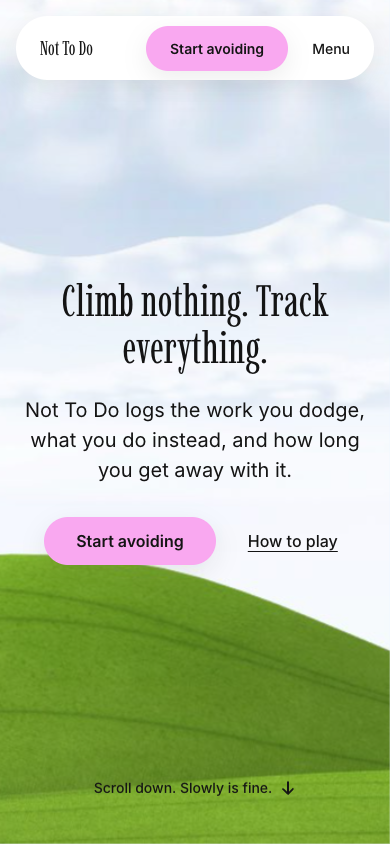
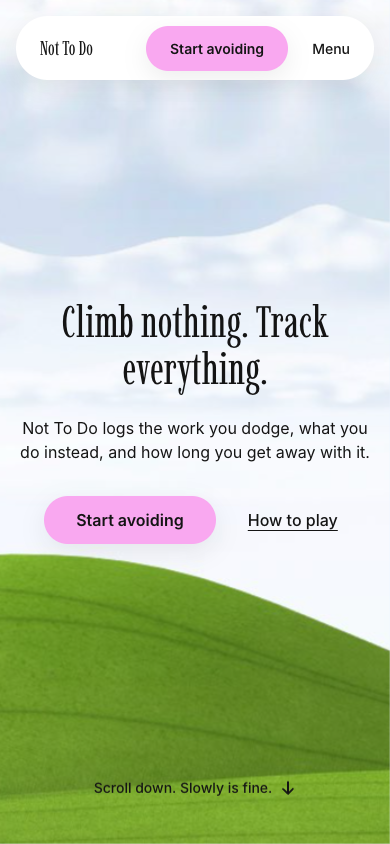
Hero headline fills the header width, smaller sub, cue lifted above the badge on tablet

Changed region(s): [[0.0615, 0.3389, 0.9538, 0.6777], [0.6154, 0.5853, 0.8615, 0.6469]]

diff --git a/src/styles/tokens.css b/src/styles/tokens.css
@@ -22,6 +22,8 @@
   /* Type scale (fluid between phone and desktop) */
   --text-display: clamp(3.5rem, 1rem + 11vw, 12rem);     /* intro parts */
   --text-title-xl: clamp(2.75rem, 1.5rem + 5vw, 6rem);   /* intro line 2, H1, high score */
+  --size-header-width: min(100vw - 2 * var(--space-4), var(--content-max));  /* width of the floating header pill */
+  --text-hero-title: calc(var(--size-header-width) * 0.103);  /* hero H1, tablet and up: fills the header width on one line (Imbue: the line is 9.5 times its font size) */
   --text-title-l: clamp(2rem, 1.2rem + 3vw, 4rem);       /* H2 */
   --text-title-s: clamp(1.25rem, 1rem + 1vw, 1.75rem);   /* intro line 1 */
   --text-body-l: 1.25rem;
@@ -125,6 +127,7 @@
   --offset-nav: calc(var(--offset-nav-top) + var(--size-nav-height) + var(--space-4)); /* room left above a section when a header link scrolls to it */
   --offset-hero-top: calc(var(--offset-nav) + var(--space-6));  /* hero text starts below the header */
   --offset-hero-cue: 40px;                 /* hero scroll cue distance from the bottom edge of the screen (set by Oksana; between the 32 and 48 steps) */
+  --offset-hero-cue-tablet: 96px;          /* tablet (768 to 1279): lifted above the "Built with Spline" badge in the bottom right */
   --length-intro-scroll: 440vh;            /* scroll distance while the intro is pinned (4 parts x 110vh) */
   --shift-intro-part: 30px;                /* how far a part rises as it is revealed */
   --blur-intro-part: 8px;                  /* blur that clears during the reveal */

diff --git a/src/styles/sections/hero.css b/src/styles/sections/hero.css
@@ -17,10 +17,13 @@
   flex-direction: column;
   align-items: center;
   gap: var(--space-5);
-  max-width: var(--content-max);
+  width: min(100%, var(--content-max)); /* as wide as the header pill */
 }
-.hero__title { max-width: var(--measure-title); }
-.hero__sub { max-width: var(--measure-sub); font-size: var(--text-body-l); text-wrap: pretty; }
+/* Headline: as wide as the header. Phones: wraps at the title size. Tablet and up: grows with the screen to fill the header width on one line. */
+@media (min-width: 768px) {
+  .hero__title { font-size: var(--text-hero-title); white-space: nowrap; }
+}
+.hero__sub { max-width: var(--measure-sub); font-size: var(--text-body); text-wrap: pretty; }
 .hero__actions {
   display: flex;
   flex-wrap: wrap;
@@ -36,6 +39,10 @@
   bottom: var(--offset-hero-cue);
   width: fit-content;
   margin-inline: auto;
+}
+/* Tablet: the Spline badge (bottom right) would cover the arrow, so the cue sits higher */
+@media (min-width: 768px) and (max-width: 1279px) {
+  .hero__cue { bottom: var(--offset-hero-cue-tablet); }
 }
 
 /* Entrance. hero.js splits the headline into words and puts the state classes on .hero:

diff --git a/design/decisions.md b/design/decisions.md
@@ -152,3 +152,9 @@
 - Fix: on opening the page the header was briefly drawn and then slid away (its hidden style arrived after the first frame, and the slide transition animated the change). The show/hide motion now switches on only after load (is-animated, set by nav.js), so the header starts out hidden. Checked on dev and production builds; it still slides in at the hero, before the text.
 - Header links centered in the pill (tablet and up): three columns, wordmark left, links centered, Start avoiding right. Pill padding made even (8px all round, the wordmark has its own 16px), so the links sit exactly in the middle. Requested by Oksana.
 - Hero scroll cue now 40px from the bottom edge (--offset-hero-cue, between the 32 and 48 steps). Requested by Oksana. At 768x1024 the "Built with Spline" badge covers the cue's arrow (the badge comes from the Spline export and sits bottom right). At 1440x900 and on phones it is clear.
+
+## 2026-11-17 · Hero: headline as wide as the header, smaller sub, cue lifted on tablet
+- Headline as wide as the header pill and growing with the screen (Oksana). Tablet and up: one line, font size = header width x 0.103 (--text-hero-title; the Imbue line is 9.5 times its font size), so it runs edge to edge of the pill: 76px at 768, 109px at 1088, 115px from 1280 (header capped at --content-max). Phones (under 768): one line would shrink it to about 37px, so it keeps --text-title-xl (44px), wraps to two lines and uses the full width. --measure-title is no longer used by the hero.
+- Sub smaller: --text-body (16px) instead of --text-body-l (20px) (Oksana).
+- Scroll cue on tablet (768 to 1279) sits 96px from the bottom (--offset-hero-cue-tablet) so the Spline badge no longer covers its arrow. Desktop and phones keep 40px.
+- New token --size-header-width (the pill width), used by the headline size.
